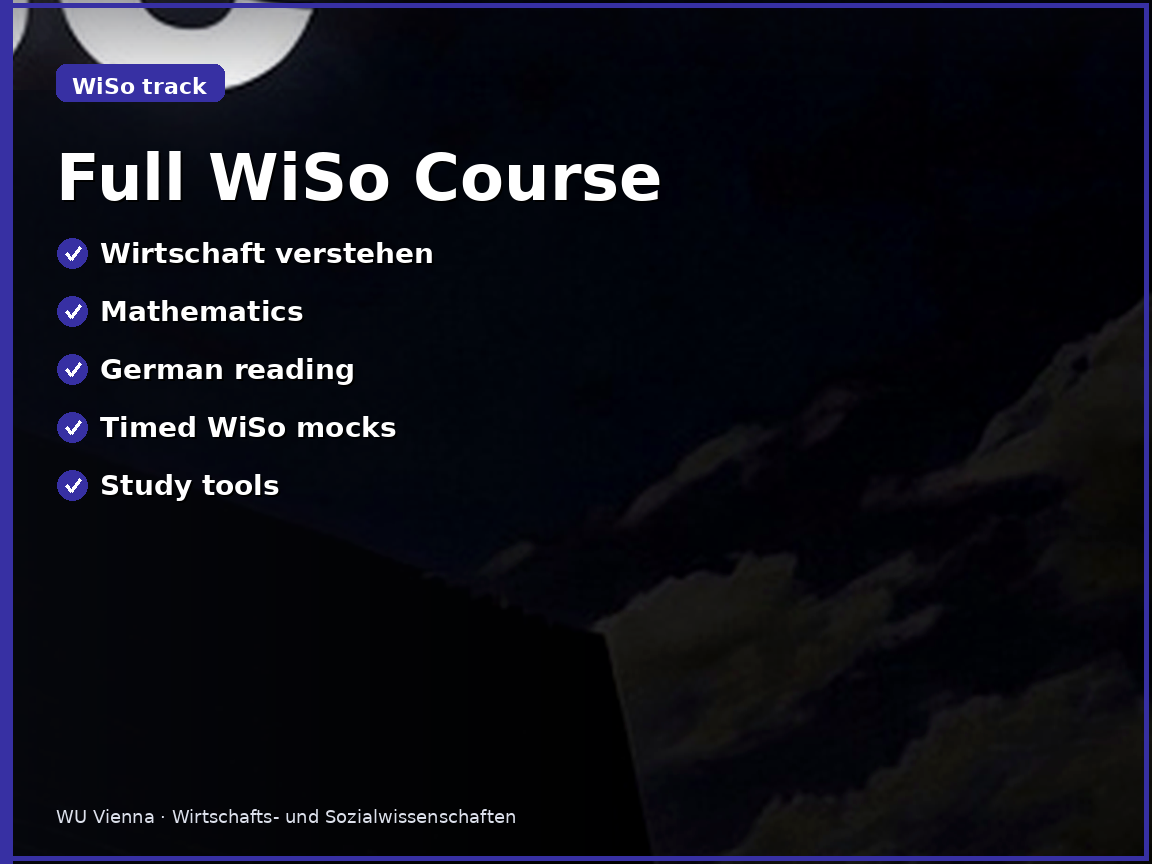
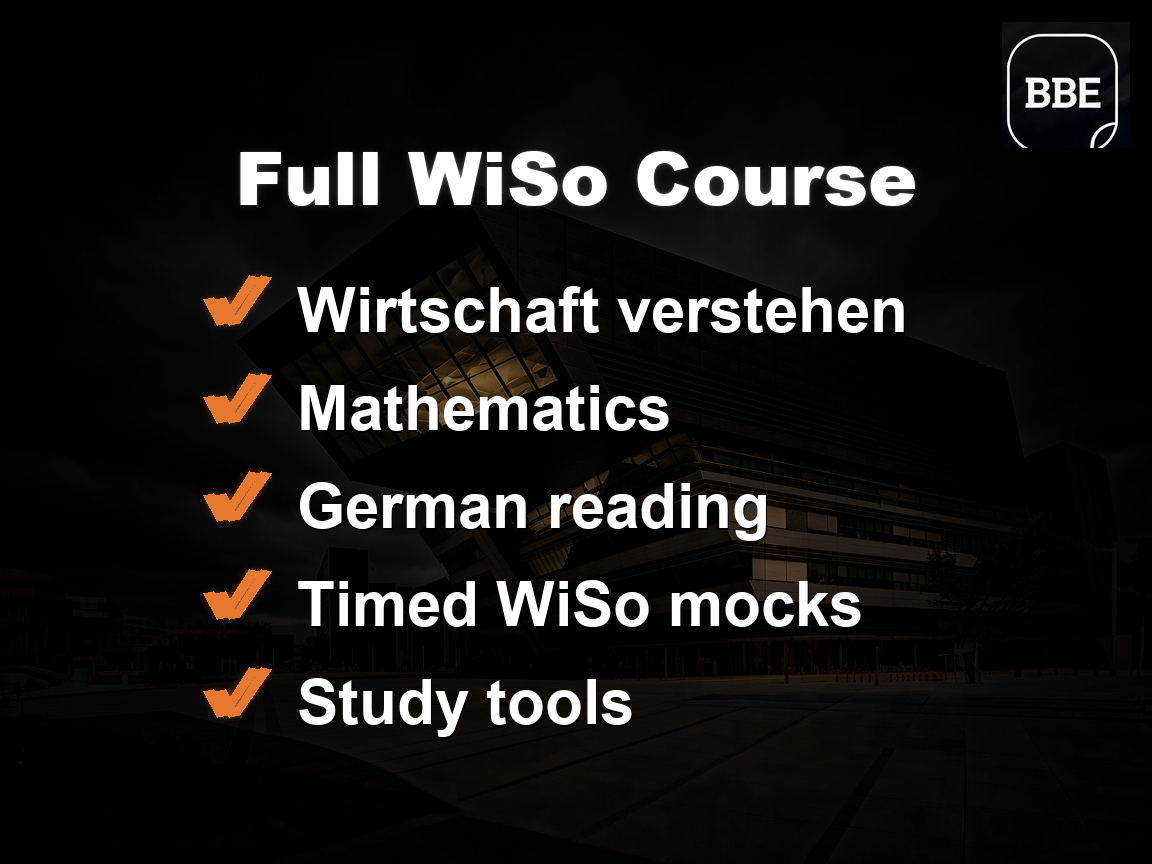
Remake the Full WiSo Course poster in the BBE product style.
Center the title, enlarge the feature list, and clear top-edge clipping so the WiSo card matches the Full BBE Course treatment on products.

diff --git a/src/lib/seo/social-image.ts b/src/lib/seo/social-image.ts
@@ -6,7 +6,7 @@ import { SITE_ORIGIN } from "@/lib/i18n/locale-path";
 
 /** Product hero remakes in public/ — prefer over Lovable CDN asset URLs. */
 const FULL_COURSE_PRODUCT_IMAGE = "/full-course-product-v2.png";
-const WISO_COURSE_PRODUCT_IMAGE = "/full-wiso-course-product-v2.png";
+const WISO_COURSE_PRODUCT_IMAGE = "/full-wiso-course-product-v3.png";
 const LITE_COURSE_PRODUCT_IMAGE = "/lite-bbe-course-v2.png";
 const DEMO_COURSE_PRODUCT_IMAGE = "/demo-practice-product-v2.png";
 

diff --git a/src/routes/products.index.tsx b/src/routes/products.index.tsx
@@ -9,7 +9,7 @@ import { socialImageMetaForPath } from "@/lib/seo/social-image";
 
 /** Local remakes served from public/ (avoids stale Lovable CDN assets). */
 const FULL_COURSE_IMAGE = "/full-course-product-v2.png";
-const WISO_COURSE_IMAGE = "/full-wiso-course-product-v2.png";
+const WISO_COURSE_IMAGE = "/full-wiso-course-product-v3.png";
 const LITE_COURSE_IMAGE = "/lite-bbe-course-v2.png";
 const DEMO_COURSE_IMAGE = "/demo-practice-product-v2.png";
 

diff --git a/src/routes/wiso.products.full-course.tsx b/src/routes/wiso.products.full-course.tsx
@@ -23,7 +23,7 @@ import { hreflangLinks } from "@/lib/i18n/locale-path";
 import { socialImageMetaForPath } from "@/lib/seo/social-image";
 
 /** Dedicated WiSo poster — sharp art with indigo branding (no blue blur wash). */
-const FULL_COURSE_IMAGE = "/full-wiso-course-product-v2.png";
+const FULL_COURSE_IMAGE = "/full-wiso-course-product-v3.png";
 const FULL_COURSE_PRICE = 449;
 
 const PATH = "/wiso/products/full-course" as const;
